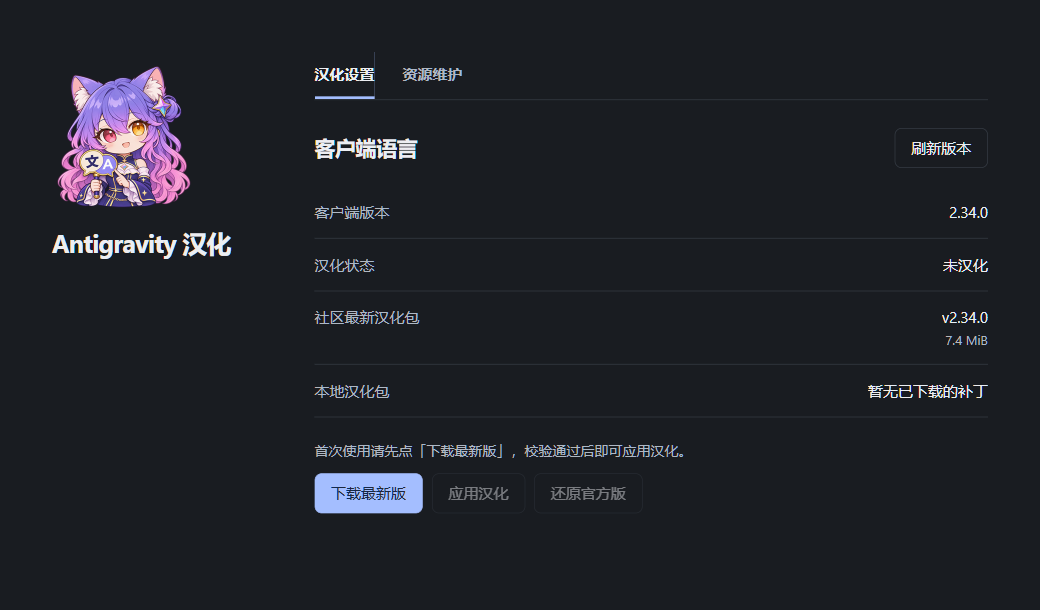
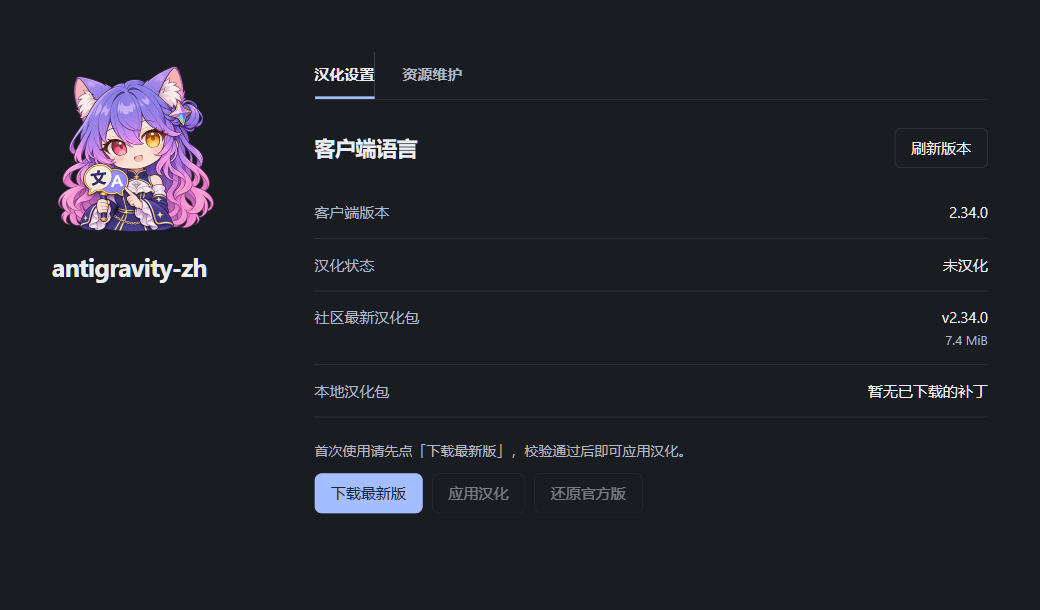
统一项目名称为 antigravity-zh 并放大插件图标

Changed region(s): [[0.0308, 0.0934, 0.2154, 0.4672]]

diff --git a/page/index.html b/page/index.html
@@ -6,7 +6,7 @@
   <meta name="color-scheme" content="light dark">
   <meta name="localizer-token" content="__LOCALIZER_TOKEN__">
   <meta name="magpie-service-port" content="33883">
-  <title>Antigravity 汉化</title>
+  <title>antigravity-zh</title>
   <link rel="icon" href="./icon.png">
   <link rel="stylesheet" href="./style.css">
   <script src="./app.js" defer></script>
@@ -14,8 +14,8 @@
 <body>
   <main class="workspace">
     <header class="identity">
-      <img src="./icon.png" width="144" height="144" alt="">
-      <h1>Antigravity 汉化</h1>
+      <img src="./icon.png" width="168" height="168" alt="">
+      <h1>antigravity-zh</h1>
     </header>
     <div class="content">
       <div class="tabs" role="tablist" aria-label="插件功能">

diff --git a/control-center.js b/control-center.js
@@ -242,7 +242,7 @@ async function startControlCenter({ port, appDir } = {}, profileDirectory) {
       }
       if (!safeEqualToken(response.headers.get('x-localizer-session'), fingerprint)) throw error;
       setTimeout(() => {
-        void bind().catch(failure => console.warn('Antigravity 汉化服务无法接管端口：' + failure.message));
+        void bind().catch(failure => console.warn('antigravity-zh服务无法接管端口：' + failure.message));
       }, 350).unref();
     }
   }

diff --git a/page/style.css b/page/style.css
@@ -95,7 +95,7 @@ dialog::backdrop { background: rgb(0 0 0 / .5); }
 @media (max-width: 720px) {
   .workspace { grid-template-columns: minmax(0, 1fr); gap: 19px; }
   .identity { display: flex; align-items: center; gap: 14px; padding: 0; }
-  .identity img { width: 60px; height: 60px; }
+  .identity img { width: 72px; height: 72px; }
   h1 { font-size: 22px; margin: 0; }
   .tabs { margin-bottom: 22px; }
 }

diff --git a/README.md b/README.md
@@ -1,18 +1,18 @@
-# Antigravity 汉化 · 喜鹊插件
+# antigravity-zh · 喜鹊插件
 
 在喜鹊（Magpie）侧栏检查 Antigravity 的社区汉化更新、应用汉化包或还原原版。译文和汉化包由 [Antigravity 中文本地化社区](https://github.com/antigravity-cn-community/Antigravity-Chinese-Localization) 维护。本插件独立发布，直接从该项目的 GitHub Releases 下载并校验 SHA-256。
 
-![Antigravity 汉化插件的设置页：客户端版本匹配时可下载社区汉化包](docs/magpie-workbench.png)
+![antigravity-zh插件的设置页：客户端版本匹配时可下载社区汉化包](docs/magpie-workbench.png)
 
 ## 安装与使用
 
-1. 从[最新发布](https://github.com/polang233/antigravity-desktop-zh/releases/latest)下载 `antigravity-desktop-zh` 插件 ZIP，解压到准备长期保留的位置。
+1. 从[最新发布](https://github.com/polang233/antigravity-zh/releases/latest)下载 `antigravity-zh` 插件 ZIP，解压到准备长期保留的位置。
 2. 在喜鹊的「插件 → 从文件夹添加」中选择解压后含 `package.json` 的文件夹，启用插件。也可以直接选择本仓库的克隆目录。
-3. 从侧栏打开「Antigravity 汉化」，点「下载最新版」。确认汉化包与客户端版本匹配后，正常退出 Antigravity，点「应用汉化」。下次从原入口启动即可。
+3. 从侧栏打开「antigravity-zh」，点「下载最新版」。确认汉化包与客户端版本匹配后，正常退出 Antigravity，点「应用汉化」。下次从原入口启动即可。
 
 「刷新版本」会查询社区最新正式版。GitHub 暂时不可用时，仍可应用匹配的本地缓存。要切回原版，退出客户端并点「还原官方版」，插件会使用同版本的本机备份。「资源维护」可以打开缓存、安装和配置目录。
 
-Windows 已验证。自定义安装位置可在插件选项中设置 `appDir`。本机页面默认使用 `127.0.0.1:33883`，端口可通过 `port` 设置。使用过预演版的用户，请先在喜鹊停用旧插件再启用此版。独立版将汉化包缓存保存在喜鹊配置目录下的 `antigravity-localization/downloads`，并可识别客户端安装目录中已有的同版本原版备份。
+Windows 已验证。自定义安装位置可在插件选项中设置 `appDir`。本机页面默认使用 `127.0.0.1:33883`，端口可通过 `port` 设置。从旧版升级时，请在喜鹊的插件列表移除旧登记，再添加新目录。已有独立版的缓存和原版备份可继续使用。独立版将汉化包缓存保存在喜鹊配置目录下的 `antigravity-localization/downloads`，并可识别客户端安装目录中已有的同版本原版备份。
 
 ## 来源与许可
 
